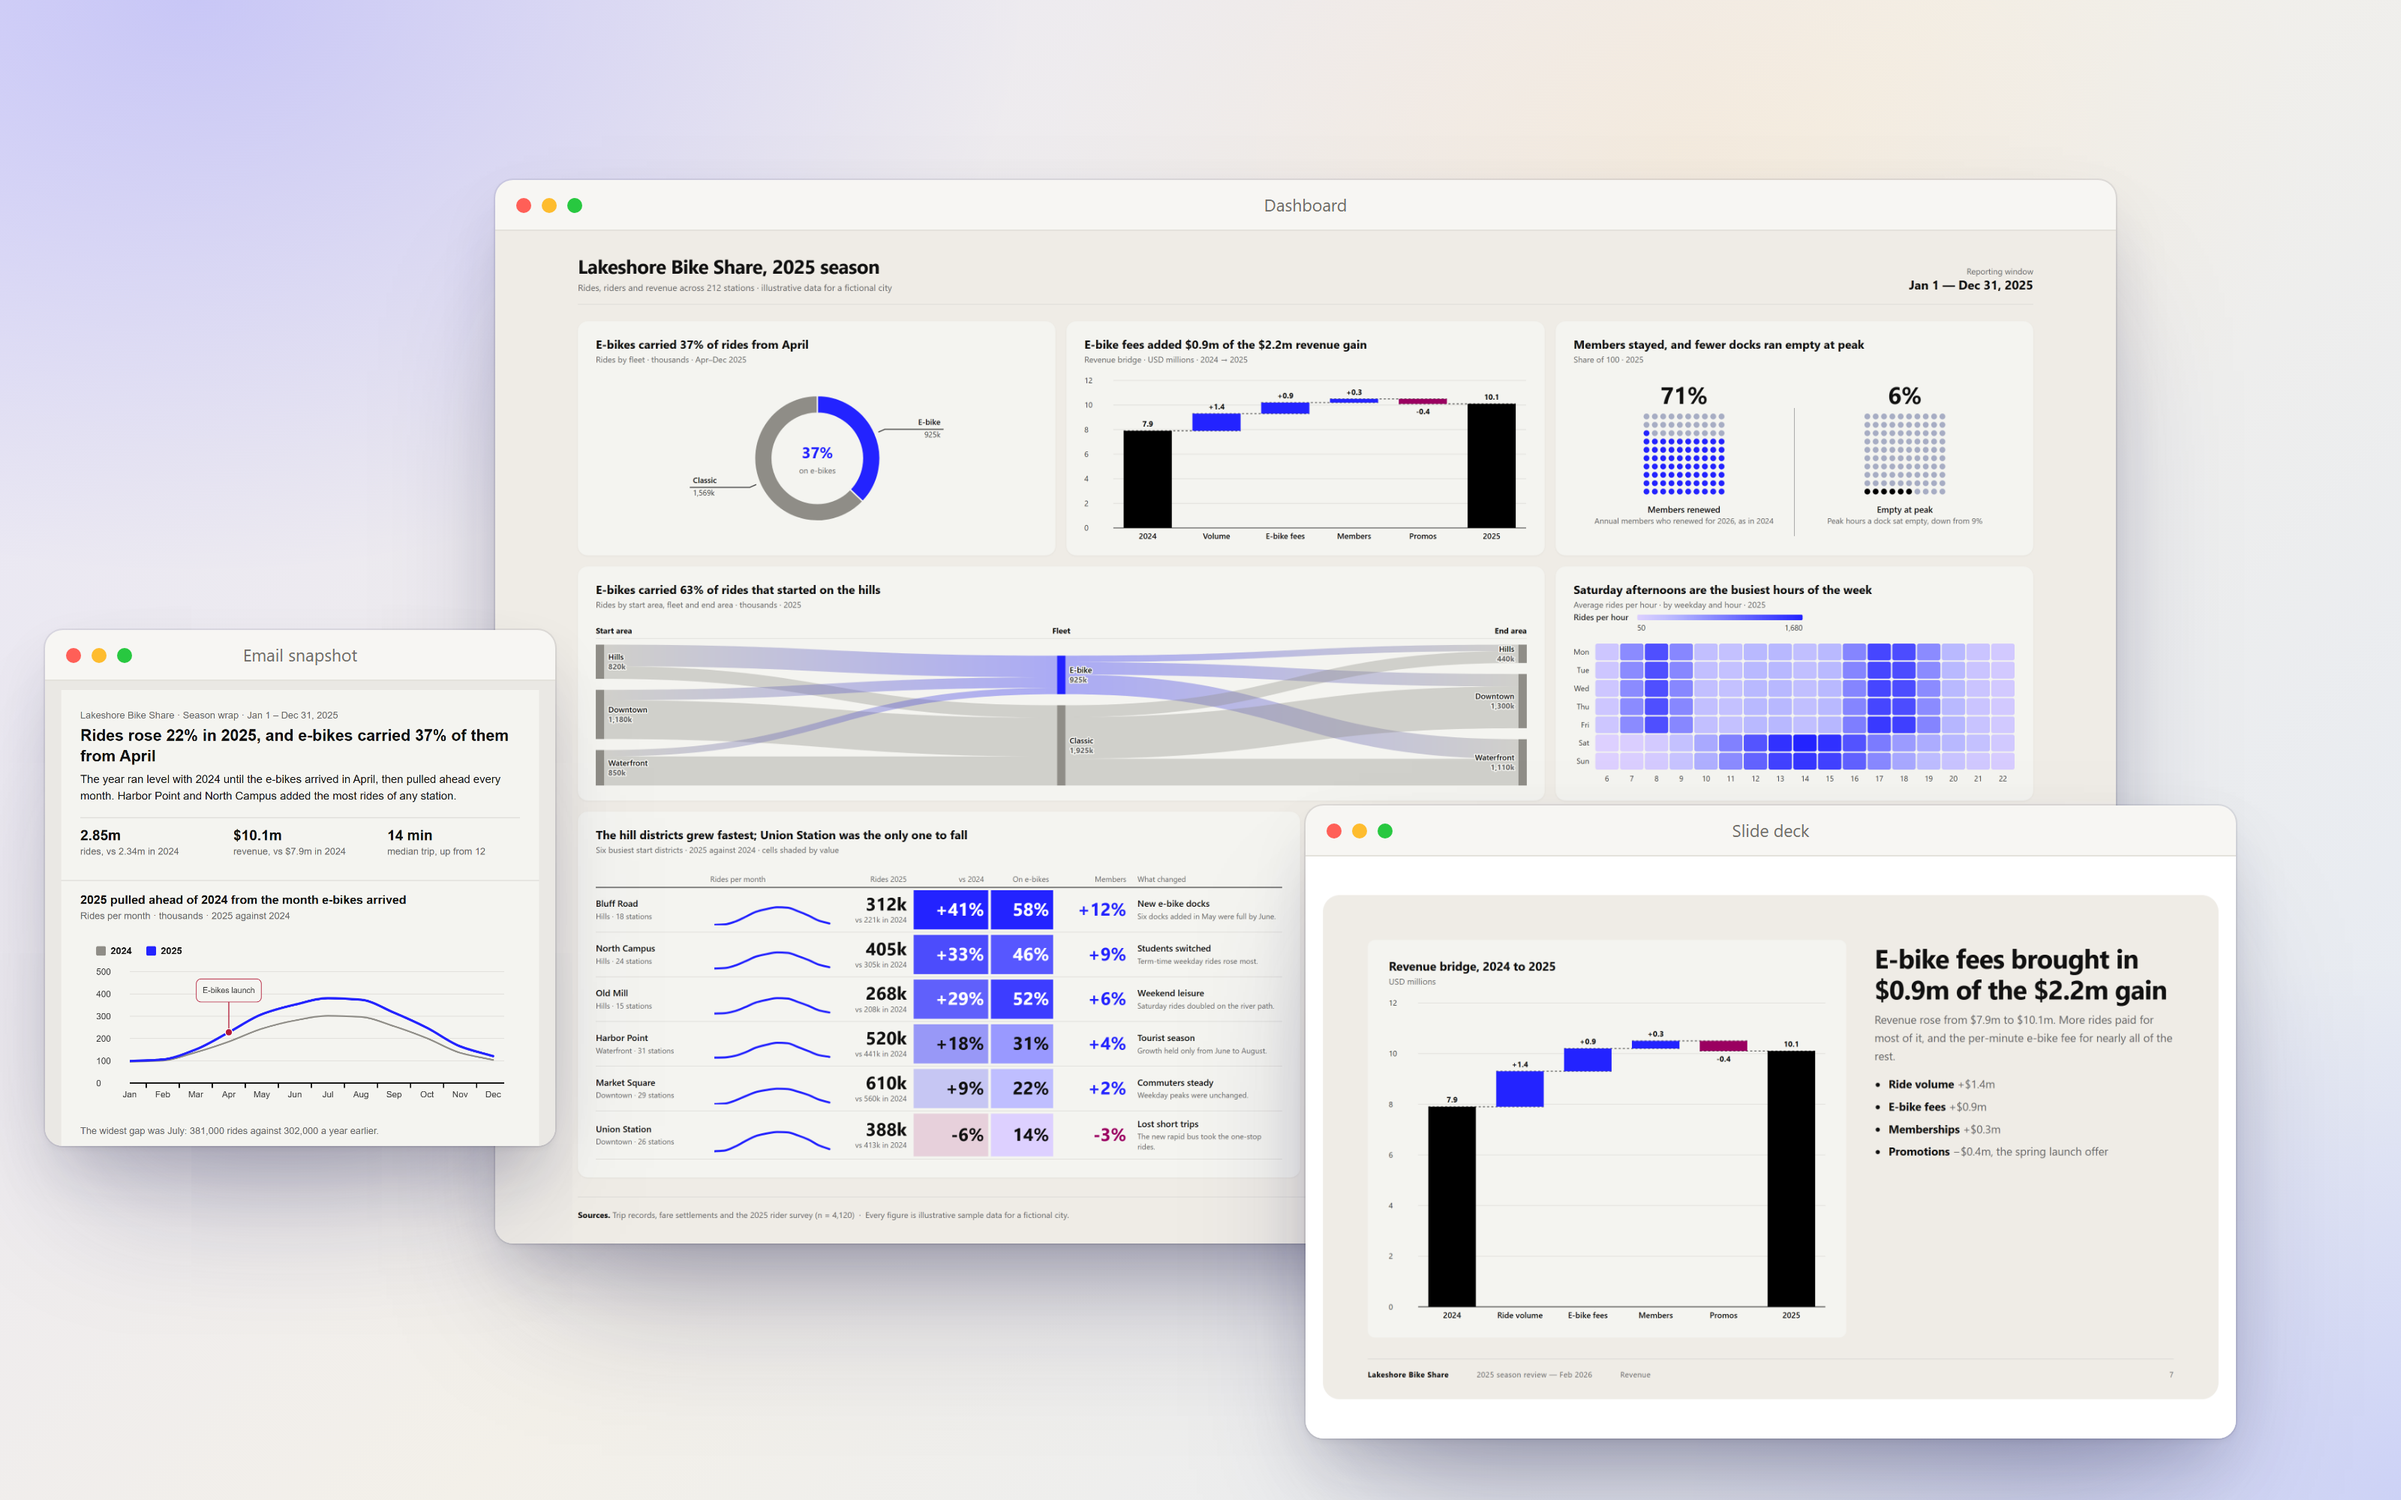
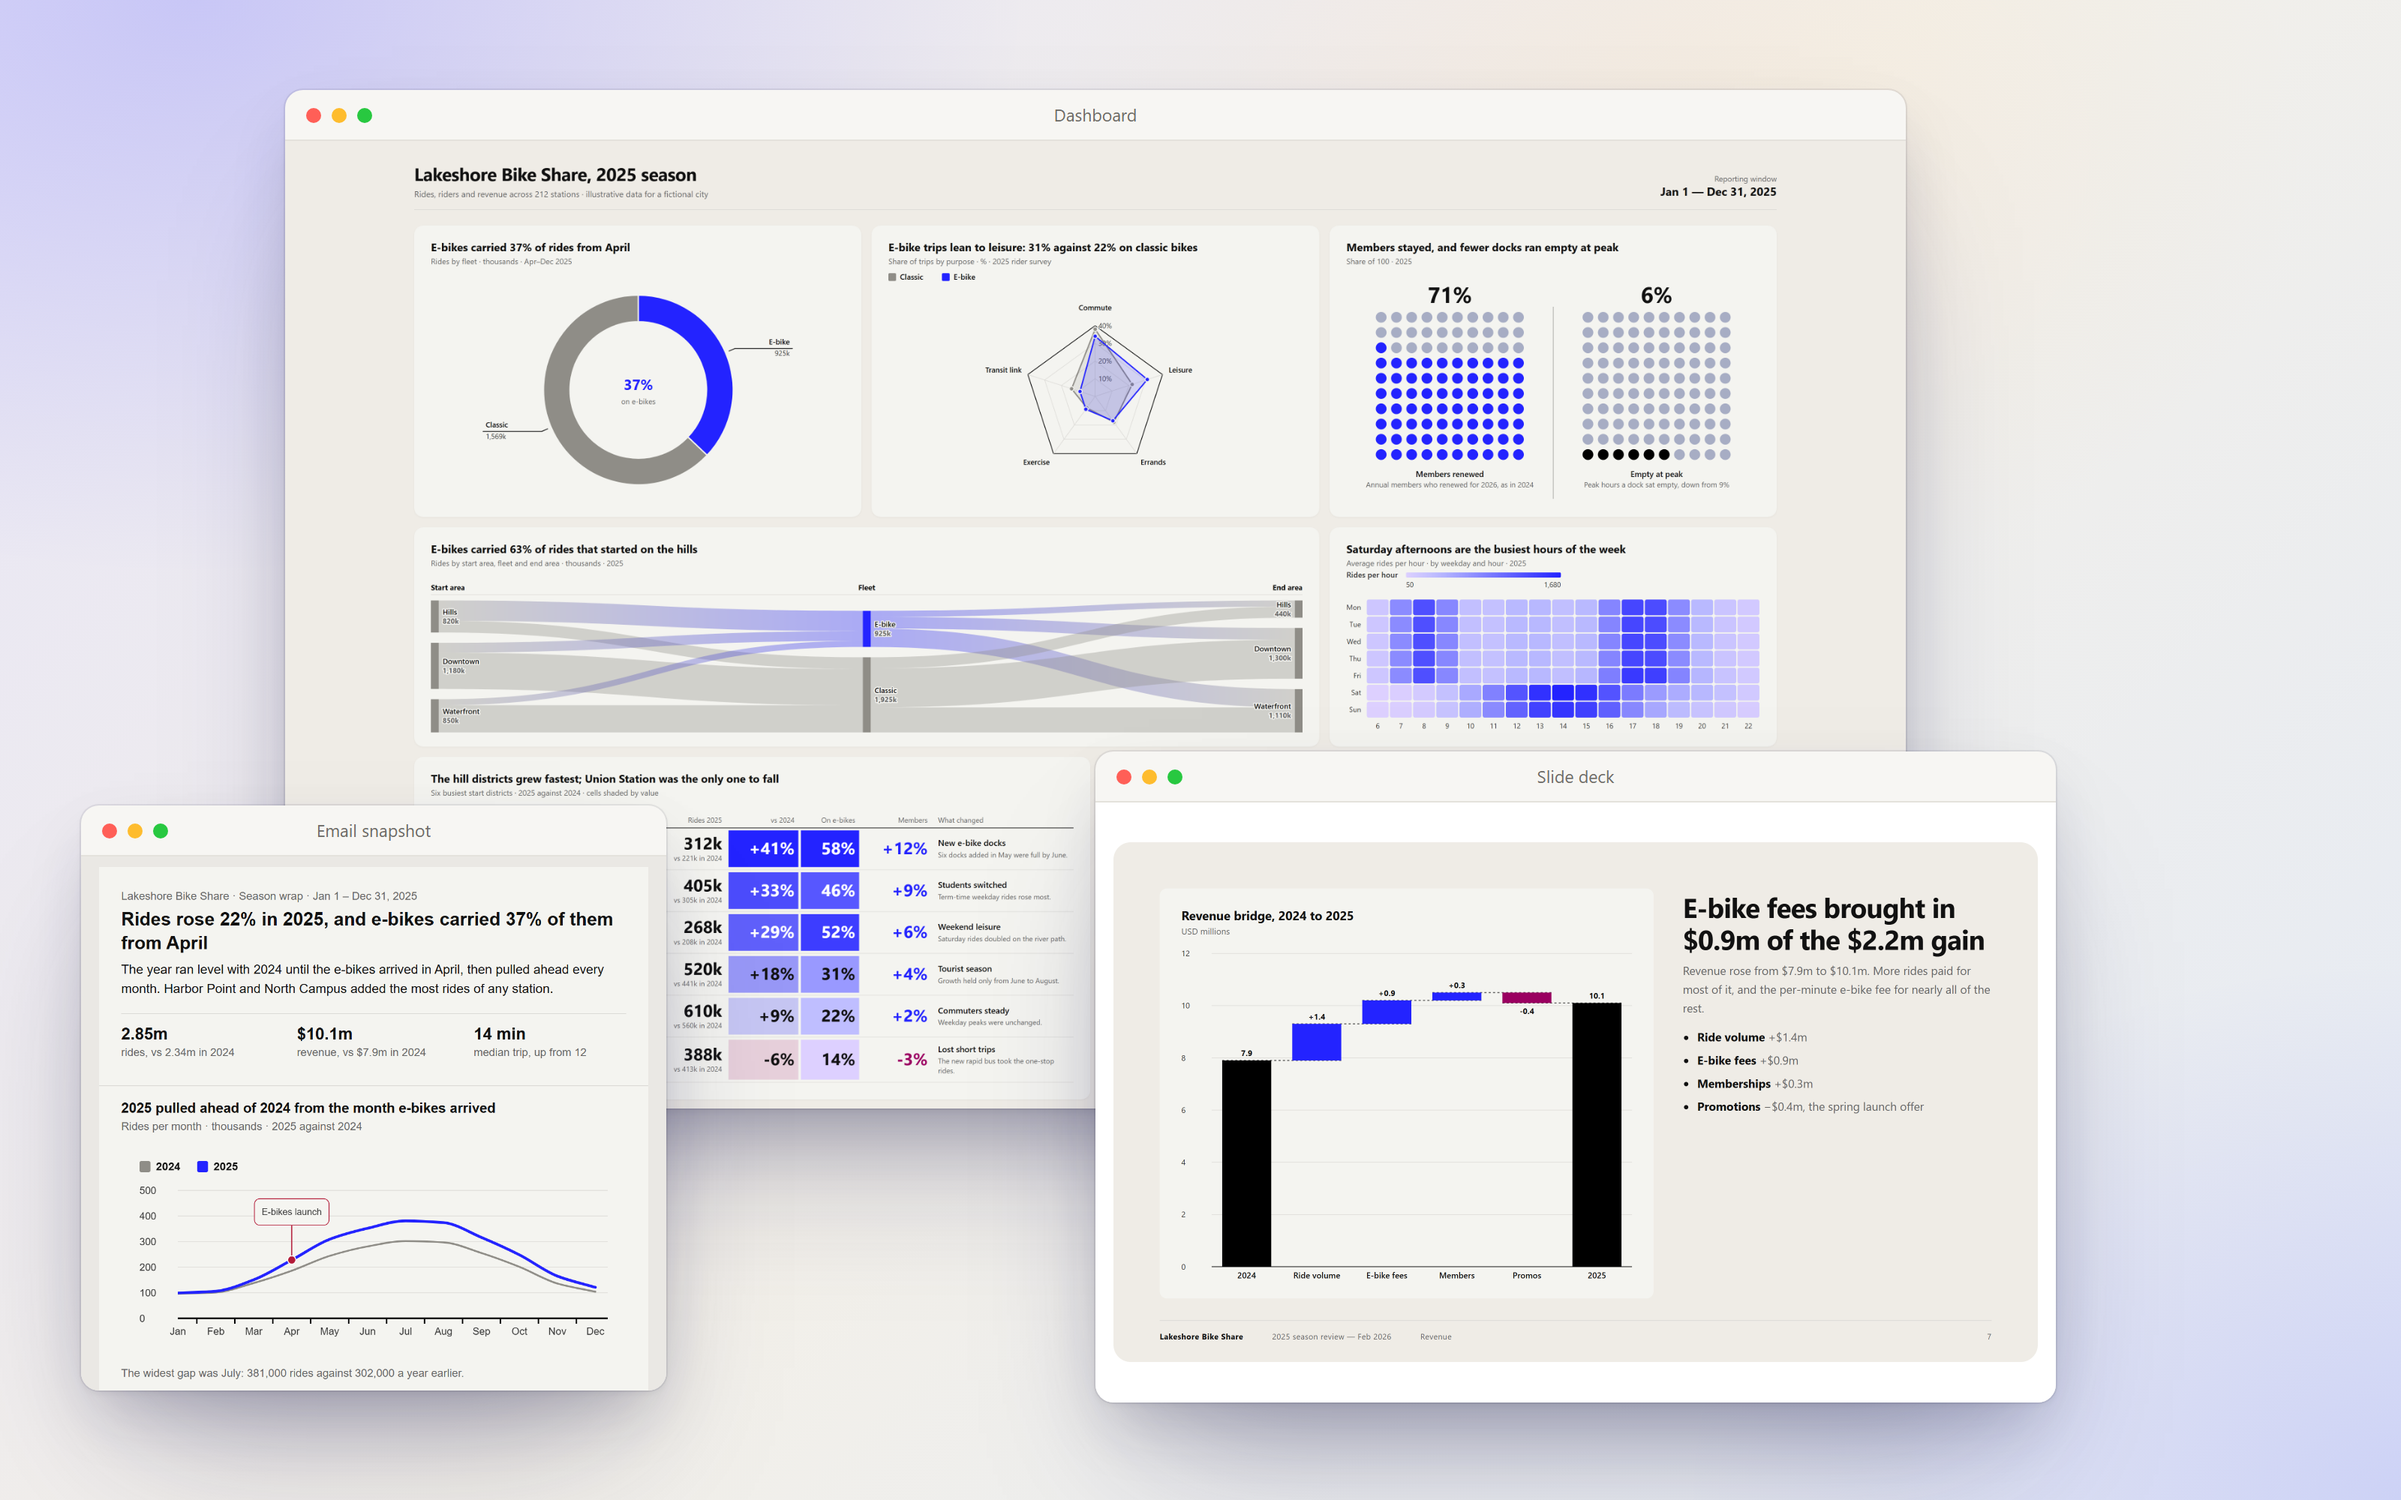
docs(readme): restore the earlier hero composition without hiding a panel
Puts the dashboard, email and deck back in the layout from before the
dashboard rework. To make that work on the new grid, the radar moves to a
440px top row where it stays visible, and the revenue bridge moves to the
bottom-right cell, which the deck covers (its slide shows the same chart).
The email's edges sit in the district table's own gaps: below its subtitle
and between the sparkline column and the first figure.

diff --git a/docs/readme/hero.html b/docs/readme/hero.html
@@ -32,26 +32,34 @@
     color:#6f6d68; pointer-events:none; }
   .win img { display:block; width:100%; height:auto; }
 
-  /* The dashboard leads and is shown whole (its capture is 2352x1470 css,
-     drawn here at 0.459). The front windows touch it only where no text is:
-     the deck's top-left corner sits in the grid gutters around the radar
-     cell (css x 1168–1184, y 827–843), so it covers that panel whole and the
-     empty end of the footer; the email overlaps only the dashboard's left
-     padding (css x < 120). Re-measure the cells if the dashboard page changes. */
-  .dash  { left:330px;  top:120px; width:1080px; z-index:1; }
-  .deck  { left:870px;  top:537px; width:620px;  z-index:3; }
-  .email { left:30px;   top:420px; width:340px;  z-index:2; }
+  /* The dashboard leads; the email and the deck sit in front of its lower
+     corners. Its capture is 2512x1570 css, drawn at 0.43 and cropped above
+     the footer. Every front-window edge that lands on the dashboard sits in
+     a gap, so no line of text is cut:
+       · the deck's corner is in the gutters around the revenue bridge cell
+         (css x 1248–1264, y 939–955), so it covers that panel whole, the
+         panel the slide itself shows;
+       · the email covers the table's district names and sparklines: its
+         right edge is at css x 592, between the sparkline column and the
+         first figure, and its top at css y 1031, between the table's
+         subtitle and its header row.
+     Re-measure if the dashboard page changes. */
+  .dash  { left:190px; top:60px;  width:1080px; z-index:1; }
+  .email { left:54px;  top:537px; width:390px;  z-index:2; }
+  .deck  { left:730px; top:501px; width:640px;  z-index:3; }
 
   .crop { position:relative; overflow:hidden; }
   .crop img { position:absolute; max-width:none; }
   /* Email capture is 1040x650 css with the 600px block at x 220–820 and the
      toolbar above y 66; keep the block with 20px of ground either side. */
+  .dash .crop { aspect-ratio:2512 / 1500; }
+  .dash .crop img { width:100%; left:0; top:0; }
   .email .crop { aspect-ratio:640 / 584; }
   .email .crop img { width:calc(100% * 1040 / 640); left:calc(-100% * 200 / 640); top:-11.3%; }
 </style>
 </head>
 <body>
-  <div class="win dash"><div class="bar"><i></i><i></i><i></i><span>Dashboard</span></div><img src="images/raw/dashboard.png" alt=""></div>
+  <div class="win dash"><div class="bar"><i></i><i></i><i></i><span>Dashboard</span></div><div class="crop"><img src="images/raw/dashboard.png" alt=""></div></div>
   <div class="win email"><div class="bar"><i></i><i></i><i></i><span>Email snapshot</span></div><div class="crop"><img src="images/raw/email.png" alt=""></div></div>
   <div class="win deck"><div class="bar"><i></i><i></i><i></i><span>Slide deck</span></div><img src="images/raw/deck.png" alt=""></div>
 </body>

diff --git a/docs/readme/pages/dashboard.html b/docs/readme/pages/dashboard.html
@@ -96,19 +96,22 @@
 
   <!-- Nothing here is a single dominant trend: the season is a set of
        co-equal findings about one change (the e-bike fleet), so the top row
-       is three equal cells. The flows need width. The district scorecard
-       sizes itself, and the radar needs more height than a 340px row leaves
-       it, so both close the page in a content-sized row. -->
-  <div class="bento">
-    <div class="cell w4"><div class="chart" id="c-mix"></div></div>
-    <div class="cell w4"><div class="chart" id="c-bridge"></div></div>
-    <div class="cell w4"><div class="chart" id="c-service"></div></div>
+       is three equal cells. It is content-sized at 440px because the radar
+       needs more height than a 340px row leaves it. The flows need width;
+       the district scorecard sizes itself, with the revenue bridge beside it
+       at the table's height. -->
+  <div class="bento flow">
+    <div class="cell w4"><div class="chart" id="c-mix" style="height:440px"></div></div>
+    <div class="cell w4"><div class="chart" id="c-purpose" style="height:440px"></div></div>
+    <div class="cell w4"><div class="chart" id="c-service" style="height:440px"></div></div>
+  </div>
+  <div class="bento" style="margin-top:16px">
     <div class="cell w8"><div class="chart" id="c-flow"></div></div>
     <div class="cell w4"><div class="chart" id="c-hours"></div></div>
   </div>
   <div class="bento flow">
     <div class="cell w6"><div class="chart" id="c-districts"></div></div>
-    <div class="cell w6"><div class="chart" id="c-purpose" style="height:519px"></div></div>
+    <div class="cell w6"><div class="chart" id="c-bridge" style="height:519px"></div></div>
   </div>
 
   <footer class="notes">
